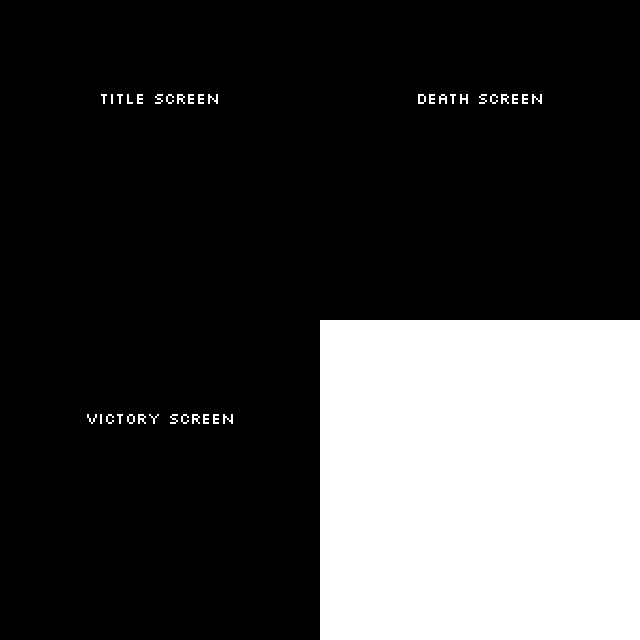
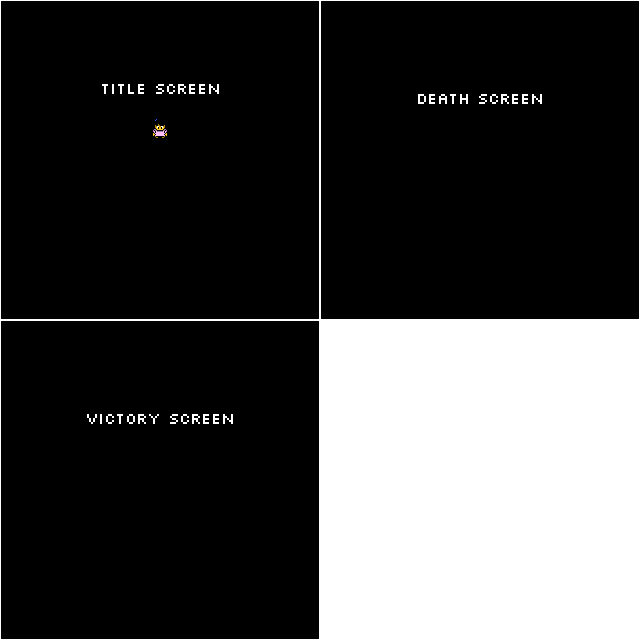
Splash overlay.

Changed region(s): [[0.1562, 0.125, 0.3438, 0.1562], [0.2188, 0.1875, 0.2812, 0.2188]]

diff --git a/src/overlay_layer.go b/src/overlay_layer.go
@@ -1,0 +1,83 @@
+package main
+
+import (
+	"../libs/twodee"
+	"time"
+)
+
+type OverlayLayer struct {
+	Game         *GameLayer
+	TileRenderer *twodee.TileRenderer
+	Bounds       twodee.Rectangle
+	Showing      bool
+	Frame        int
+}
+
+const (
+	OverlayTitleFrame = 0
+	OverlayDeathFrame = 1
+	OverlayWinFrame   = 2
+)
+
+func NewOverlayLayer(app *Application, game *GameLayer) (layer *OverlayLayer, err error) {
+	layer = &OverlayLayer{
+		Game:   game,
+		Bounds: twodee.Rect(0, 0, 1, 1),
+	}
+	tilem := twodee.TileMetadata{
+		Path:       "assets/overlays.fw.png",
+		PxPerUnit:  320,
+		TileWidth:  320,
+		TileHeight: 320,
+		FramesWide: 2,
+		FramesHigh: 2,
+	}
+	if layer.TileRenderer, err = twodee.NewTileRenderer(layer.Bounds, app.WinBounds, tilem); err != nil {
+		return
+	}
+	return
+}
+
+func (l *OverlayLayer) Delete() {
+	if l.TileRenderer != nil {
+		l.TileRenderer.Delete()
+	}
+}
+
+func (l *OverlayLayer) Show(frame int) {
+	l.Game.Level.Pause()
+	l.Showing = true
+	l.Frame = frame
+}
+
+func (l *OverlayLayer) Render() {
+	if !l.Showing {
+		return
+	}
+	l.TileRenderer.Bind()
+	l.TileRenderer.Draw(l.Frame, 0.5, 0.5, 0, false, false)
+	l.TileRenderer.Unbind()
+}
+
+func (l *OverlayLayer) HandleEvent(evt twodee.Event) bool {
+	if !l.Showing {
+		return true
+	}
+	switch event := evt.(type) {
+	case *twodee.KeyEvent:
+		if event.Type != twodee.Press {
+			break
+		}
+		l.Game.Level.Unpause()
+		l.Showing = false
+		return false
+	}
+	return true
+}
+
+func (l *OverlayLayer) Update(elapsed time.Duration) {
+}
+
+func (l *OverlayLayer) Reset() (err error) {
+	return
+}

diff --git a/src/level.go b/src/level.go
@@ -26,10 +26,11 @@ type Level struct {
 	onPlayerDestroyedItemEventId int
 	onPlayerUsedItemEventId      int
 	WaterAccumulation            time.Duration
+	Paused                       bool
 }
 
 func LoadLevel(path string, names []string, eventSystem *twodee.GameEventHandler) (l *Level, err error) {
-	var player = NewPlayer(2, 2)
+	var player = NewPlayer(10, 5)
 	l = &Level{
 		Height:            0,
 		Grids:             []*twodee.Grid{},
@@ -41,6 +42,7 @@ func LoadLevel(path string, names []string, eventSystem *twodee.GameEventHandler
 		Player:            player,
 		eventSystem:       eventSystem,
 		WaterAccumulation: 0,
+		Paused:            false,
 	}
 	l.onPlayerMoveEventId = eventSystem.AddObserver(PlayerMove, l.OnPlayerMoveEvent)
 	l.onPlayerTouchedItemEventId = eventSystem.AddObserver(PlayerTouchedItem, l.OnPlayerTouchedItemEvent)
@@ -372,6 +374,9 @@ func (l *Level) LayerRewind() {
 }
 
 func (l *Level) Update(elapsed time.Duration) {
+	if l.Paused {
+		return
+	}
 	var i int32
 	for i = 0; i < l.Layers; i++ {
 		if l.Transitions[i] != nil {
@@ -422,4 +427,12 @@ func (l *Level) GetLayerWaterStatus(layer int32) LayerWaterStatus {
 		return Wet
 	}
 	return Dry
+}
+
+func (l *Level) Pause() {
+	l.Paused = true
+}
+
+func (l *Level) Unpause() {
+	l.Paused = false
 }

diff --git a/src/main.go b/src/main.go
@@ -22,6 +22,7 @@ type Application struct {
 	GameEventHandler      *twodee.GameEventHandler
 	gameClosingObserverId int
 	InitiateCloseGame     bool
+	overlayLayer          *OverlayLayer
 }
 
 func NewApplication() (app *Application, err error) {
@@ -65,11 +66,16 @@ func NewApplication() (app *Application, err error) {
 	if hudLayer, err = NewHudLayer(app, gameLayer); err != nil {
 		return
 	}
+	if app.overlayLayer, err = NewOverlayLayer(app, gameLayer); err != nil {
+		return
+	}
 	if err = gameLayer.LoadLevel("assets/level00/"); err != nil {
 		return
 	}
+	app.overlayLayer.Show(OverlayTitleFrame)
 	layers.Push(gameLayer)
 	layers.Push(hudLayer)
+	layers.Push(app.overlayLayer)
 	layers.Push(menuLayer)
 	app.gameClosingObserverId = app.GameEventHandler.AddObserver(GameIsClosing, app.CloseGame)
 	return
